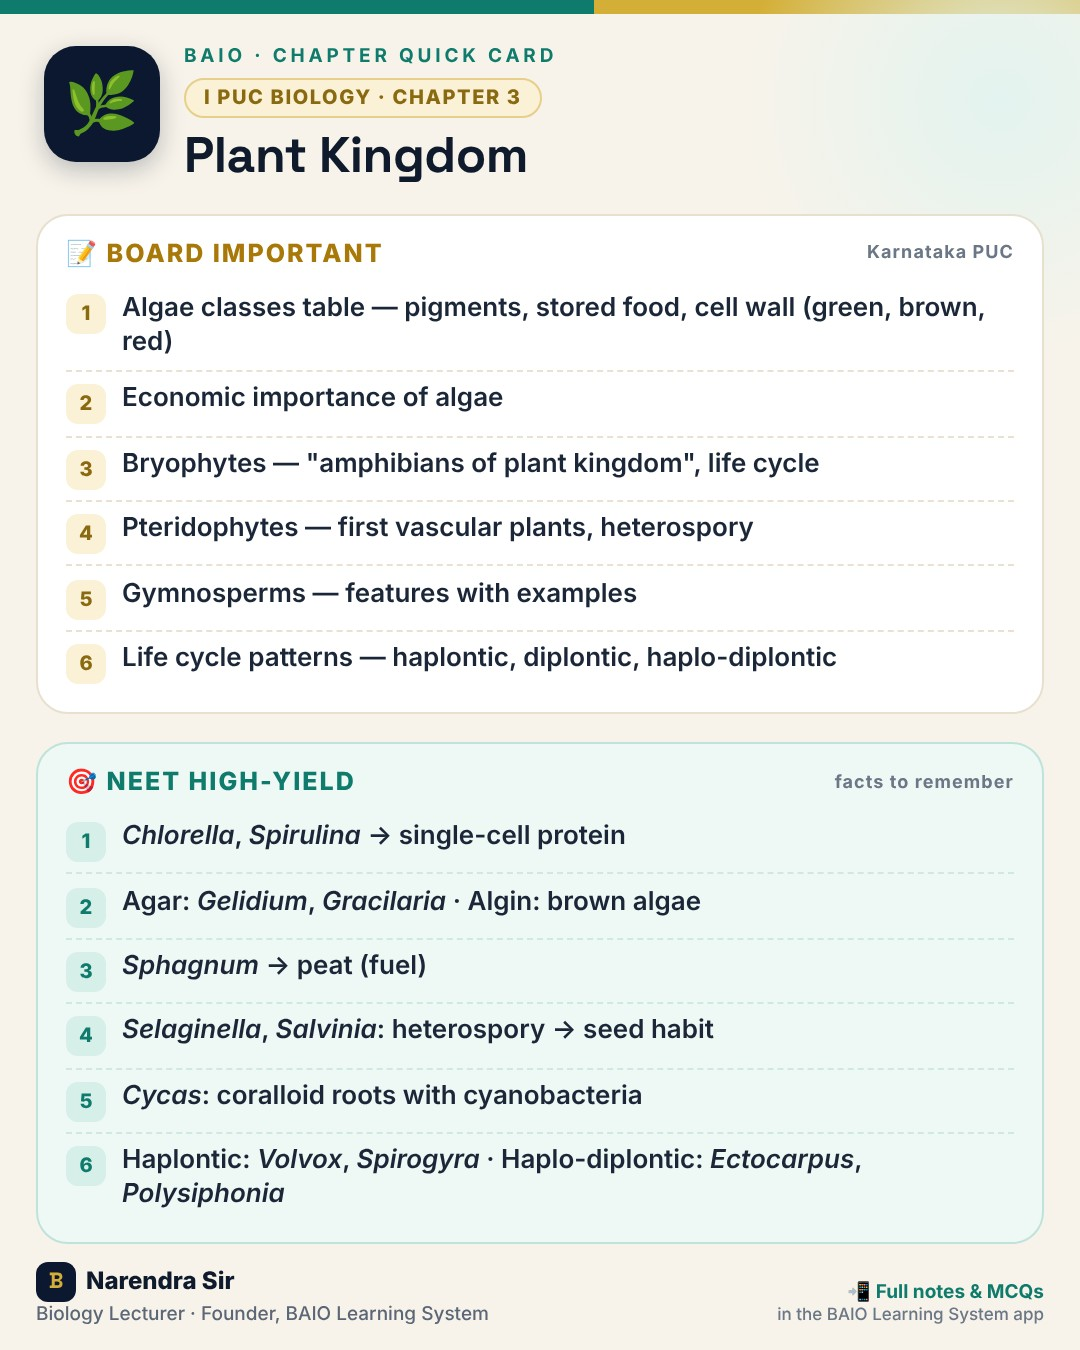
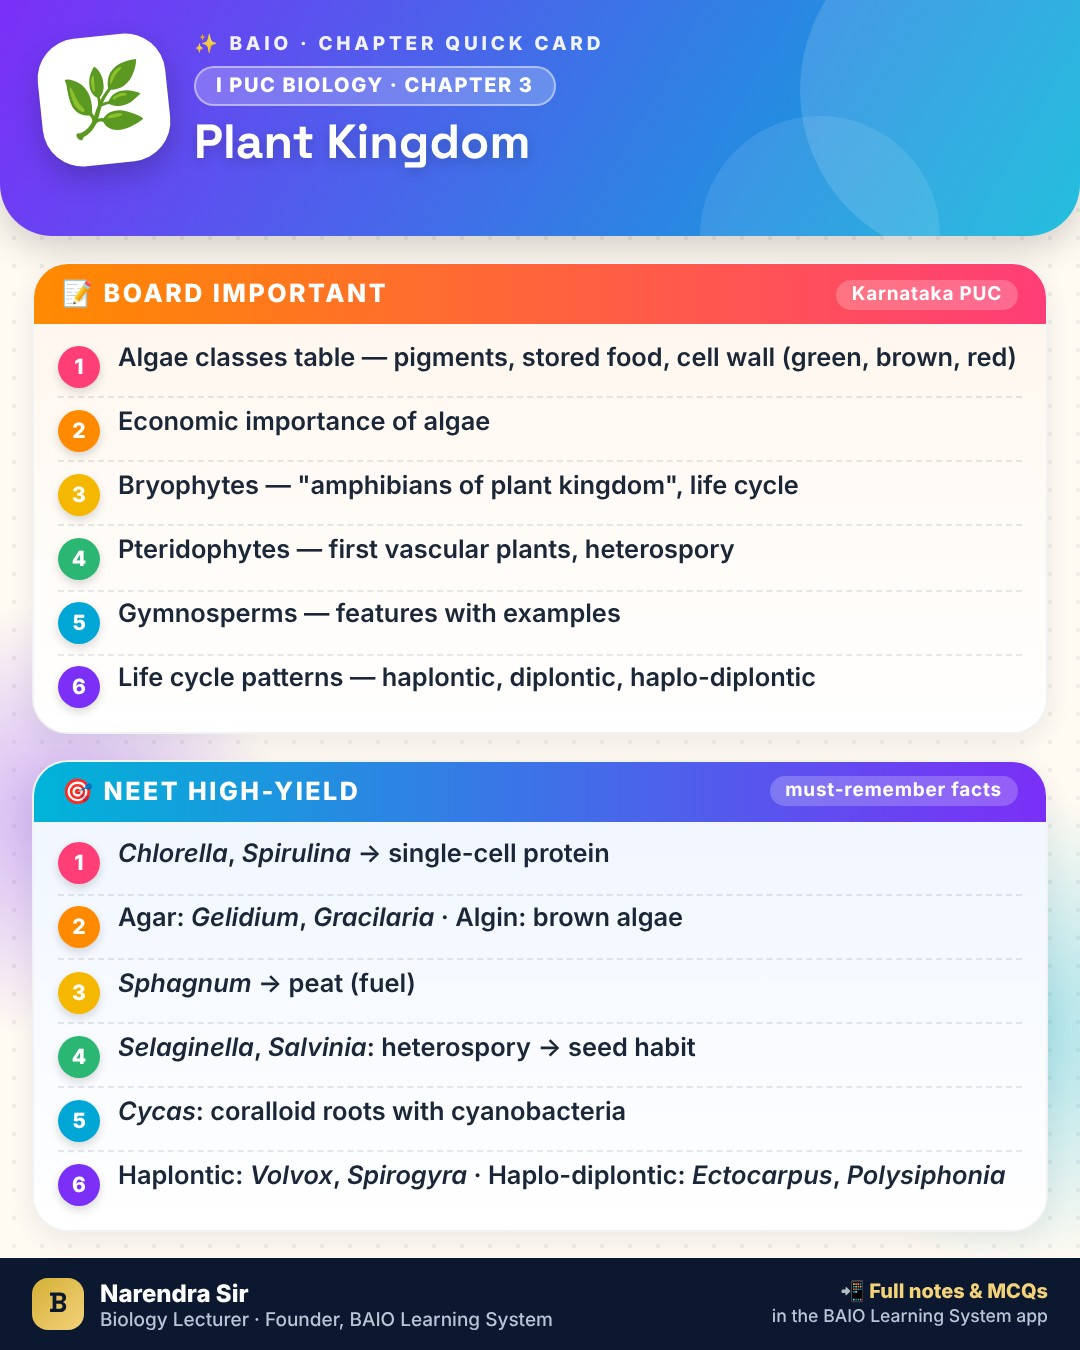
Quick Cards: colourful redesign (per-chapter gradient header, coloured section bands and numbers)
Claude-Session: https://claude.ai/code/session_014QeQ9is1mz9E1otG3meiyh

diff --git a/important-cards.html b/important-cards.html
@@ -168,11 +168,11 @@ let lang='en', filter='all', cur=-1;
 const grid=document.getElementById('grid'), viewer=document.getElementById('viewer');
 const shown=()=>CARDS.filter(c=>filter==='all'||String(c.pu)===filter);
 function render(){
-  grid.innerHTML=shown().map(c=>`<button class="qc" type="button" data-id="${c.id}"><img src="important-cards/${c.id}.jpg" alt="${c.title} quick card" loading="lazy"><div><small>${c.pu===1?'I PUC':'II PUC'} · Ch ${c.ch}</small>${c.title}</div></button>`).join('');
+  grid.innerHTML=shown().map(c=>`<button class="qc" type="button" data-id="${c.id}"><img src="important-cards/${c.id}.jpg?v=2" alt="${c.title} quick card" loading="lazy"><div><small>${c.pu===1?'I PUC':'II PUC'} · Ch ${c.ch}</small>${c.title}</div></button>`).join('');
 }
 function open(id){
   const list=shown(); cur=list.findIndex(c=>c.id===id); if(cur<0){ filter='all'; setFilter('all'); return open(id); }
-  const c=list[cur]; const src='important-cards/'+c.id+'.jpg';
+  const c=list[cur]; const src="important-cards/"+c.id+".jpg?v=2";
   document.getElementById('vimg').src=src; document.getElementById('vimg').alt=c.title+' quick card';
   const dl=document.getElementById('vdl'); dl.href=src; dl.setAttribute('download','BAIO_'+c.title.replace(/[^A-Za-z0-9]+/g,'_')+'_Quick_Card.jpg');
   document.getElementById('vch').href=c.page;
